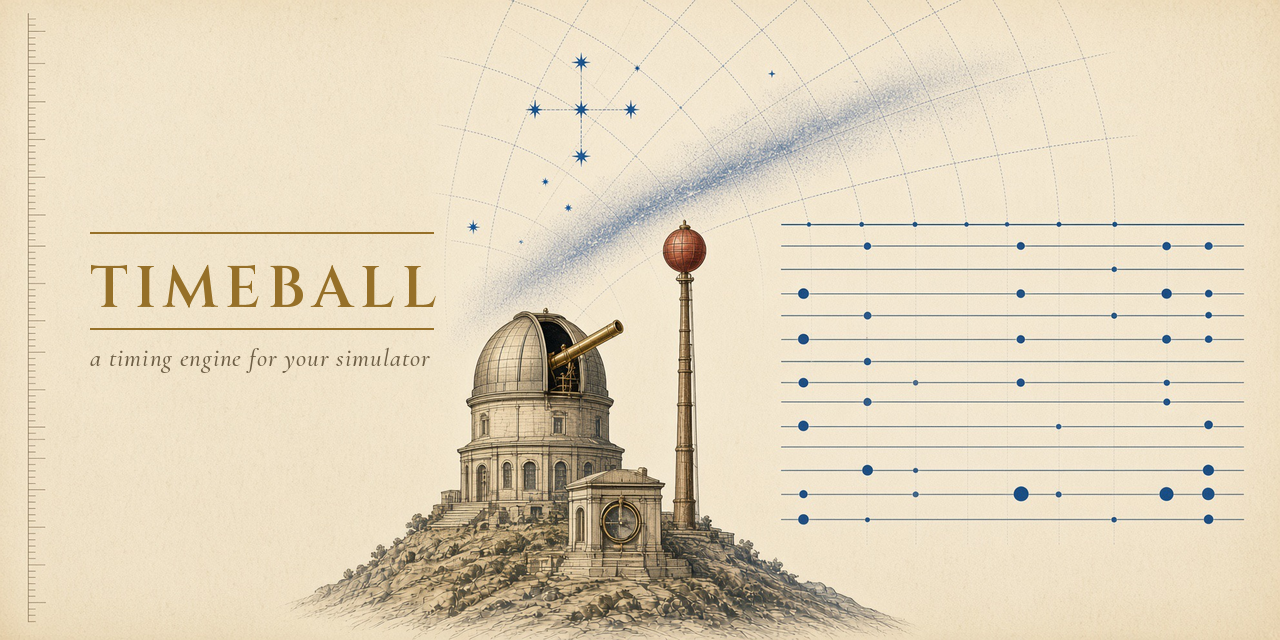
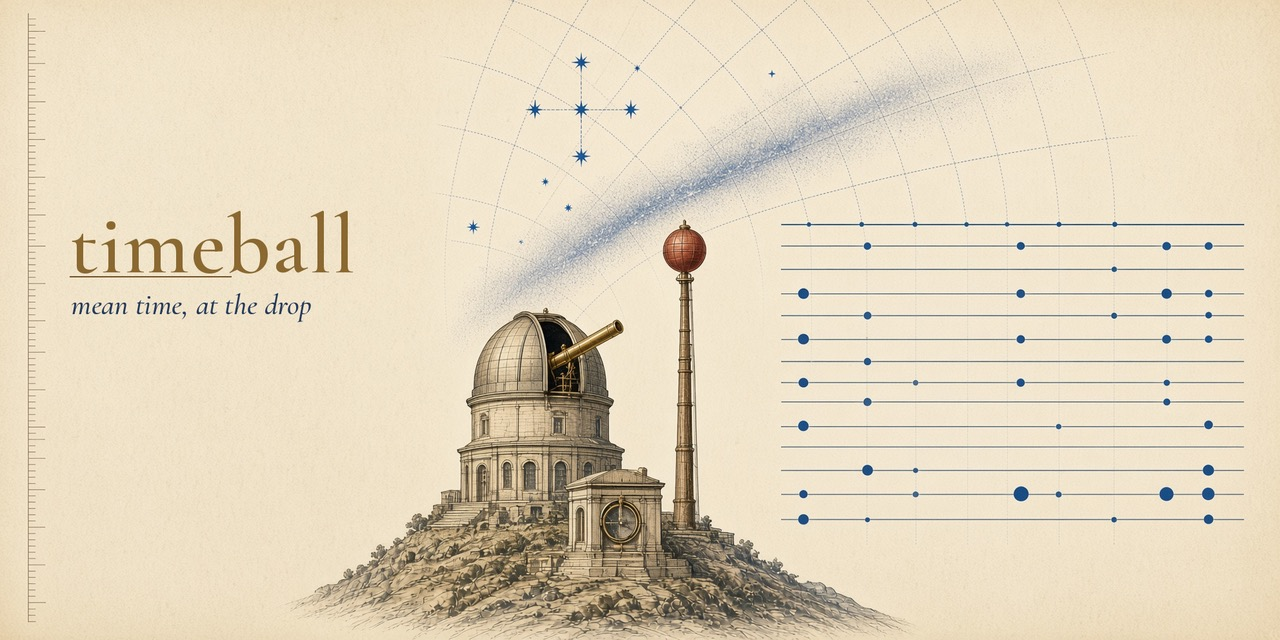
[Docs] Write the project name in lowercase and redraw the cover
The prose, comments, and README links say timeball. docs/img/cover.png is
redrawn with a lowercase title. CMake gains the timeball::engine alias to match
the C++ namespace; project() and the Timeball::engine alias stay, as downstream
builds link against them.

diff --git a/examples/mmio_accelerator.cpp b/examples/mmio_accelerator.cpp
@@ -6,7 +6,7 @@
 // reports the instructions it retires and the loads and stores it performs. The
 // program runs a dispatch core that feeds a vector unit and a MAC array through
 // memory-mapped registers — write the sizes, write START, poll STATUS — which
-// is how software drives an accelerator. Timeball sees nothing else, and
+// is how software drives an accelerator. timeball sees nothing else, and
 // answers how long it took and where the time went.
 
 #include <cassert>

diff --git a/examples/spike/two_machines.cpp b/examples/spike/two_machines.cpp
@@ -5,7 +5,7 @@
 // form of a Spike commit log. Spike is not run here.
 //
 // These cycles omit instruction fetch: a commit log has no fetch, and none is
-// invented. They are Timeball's timing of the committed accesses, not a
+// invented. They are timeball's timing of the committed accesses, not a
 // comparison against silicon or RTL.
 
 #include <cassert>

diff --git a/test/unit/reference_scheduler.hpp b/test/unit/reference_scheduler.hpp
@@ -9,7 +9,7 @@
 // (O(cycles * ops)) and exactly the point: a bug shaped like the engine's own
 // implementation cannot also be shaped like this one.
 //
-// Test-only. Not part of the library Timeball ships.
+// Test-only. Not part of the library timeball ships.
 
 #ifndef TIMEBALL_TEST_REFERENCE_SCHEDULER_HPP
 #define TIMEBALL_TEST_REFERENCE_SCHEDULER_HPP

diff --git a/test/unit/checked_run.hpp b/test/unit/checked_run.hpp
@@ -11,7 +11,7 @@
 // see the windowed helpers in test_event_engine.cpp and test_core_port.cpp for
 // that shape.
 //
-// Test-only. Not part of the library Timeball ships.
+// Test-only. Not part of the library timeball ships.
 
 #ifndef TIMEBALL_TEST_CHECKED_RUN_HPP
 #define TIMEBALL_TEST_CHECKED_RUN_HPP

diff --git a/README.md b/README.md
@@ -1,16 +1,16 @@
 <p align="center">
-  <img src="docs/img/cover.png" alt="Timeball: a timing engine for your simulator" width="720">
+  <img src="docs/img/cover.png" alt="timeball: a timing engine for your simulator" width="720">
 </p>
 
-# Timeball
+# timeball
 
 ![License](https://img.shields.io/badge/license-MIT-blue.svg)
 ![C++20](https://img.shields.io/badge/c%2B%2B-20-blue.svg)
 ![CI/CD](https://github.com/TheCloudlet/timeball/workflows/CI%2FCD%20Pipeline/badge.svg)
 ![Format](https://github.com/TheCloudlet/timeball/workflows/Format%20Check/badge.svg)
 
-**Timeball is a timing engine that you link into your own simulator.** You
-describe a chip as a graph of connected units, and Timeball computes when each
+**timeball is a timing engine that you link into your own simulator.** You
+describe a chip as a graph of connected units, and timeball computes when each
 access completes. Your simulator runs the program.
 
 ![One run of examples/mmio_accelerator in Perfetto: per-resource work lanes for
@@ -24,8 +24,8 @@ the core, L1, DRAM, a vector unit and a MAC array](docs/img/mmio-perfetto.png)
 A [time ball](https://en.wikipedia.org/wiki/Time_ball) is a ball on a mast,
 dropped at an agreed hour so every ship in the harbor can set its chronometer
 by the same instant. The ball does not sail; it only keeps the time the others
-read. Timeball plays that part for a simulator. Your simulator decides what
-runs. Timeball keeps the one timeline that says when, and how long each access
+read. timeball plays that part for a simulator. Your simulator decides what
+runs. timeball keeps the one timeline that says when, and how long each access
 waited.
 
 ## The problem
@@ -48,15 +48,15 @@ It is also wrong once anything is shared. Forty cycles per access holds while
 accesses run one at a time. When two agents use the same resource, one waits,
 and a fixed number cannot show the wait. Both agents need one timeline.
 
-Timeball keeps that timeline in its own engine, linked into the simulator you
+timeball keeps that timeline in its own engine, linked into the simulator you
 have. You test the engine by itself, compare it across workloads, and reuse it
 on the next project.
 
 ## How it works
 
 A host simulator keeps its architectural state and its correctness, and tells
-Timeball what work happens: memory accesses, and any other operation with a cost
-it already knows. Timeball puts all of it on one timeline and answers when each
+timeball what work happens: memory accesses, and any other operation with a cost
+it already knows. timeball puts all of it on one timeline and answers when each
 piece completes.
 
 If the address graph looks like this:
@@ -209,7 +209,7 @@ it has compile-time geometry throughout. A cache hit is one hop and never
 touches its successor.
 
 This is a preference on the per-access path, not a system-wide guarantee. The
-earlier claim that Timeball "eliminates virtual dispatch" described a design
+earlier claim that timeball "eliminates virtual dispatch" described a design
 that could not express a shared resource at all, and has been replaced.
 
 ### One record, kept by the engine
@@ -254,7 +254,7 @@ analysis that must tell resources apart should key on the id, not the name. The
 SQLite store keeps the name.
 
 A caller that owns its own tables may add a nullable `metadata` column to `ops`
-holding one JSON object per row. Timeball never writes it; the Perfetto
+holding one JSON object per row. timeball never writes it; the Perfetto
 converter shows each key as a named argument on that row's slice, and rejects a
 row whose metadata is not valid JSON, naming the row.
 
@@ -269,7 +269,7 @@ connection, starts the transaction before constructing the store, and writes its
 own tables keyed by operation ID. Check the store's `Close()` result before
 committing the combined recording; it finalizes only the store's statements. The
 caller must also check its metadata writes and final commit, and publish only a
-complete recording. No caller-specific schema is added to Timeball.
+complete recording. No caller-specific schema is added to timeball.
 
 ### Viewing a recording in Perfetto
 
@@ -382,10 +382,11 @@ ctest --test-dir build
 
 ```cmake
 add_subdirectory(third_party/timeball)
-target_link_libraries(my_host PRIVATE Timeball::engine)
+target_link_libraries(my_host PRIVATE timeball::engine)
 ```
 
-The target carries its include paths and requires C++20. When Timeball is not
+The target carries its include paths and requires C++20. `Timeball::engine`, the
+earlier spelling, is still an alias for it. When timeball is not
 the top-level project it leaves the host's compiler settings alone and builds
 no examples or benchmark; `-DTIMEBALL_BUILD_EXAMPLES=ON` turns them on.
 
@@ -557,7 +558,7 @@ test runs from the committed transcript and does not need Spike installed.
 ## Error handling
 
 No exceptions. Configuration and the per-access path do not return errors:
-Timeball is embedded in someone else's simulator, and throwing into a host
+timeball is embedded in someone else's simulator, and throwing into a host
 that does not expect exceptions behaves unpredictably, quite apart from
 exceptions being frequently disabled in this domain. One query does return
 `tl::expected`: `EventEngine::CompletionOf` is the cycle, or `kPending`, or
@@ -661,7 +662,7 @@ MIT License — see LICENSE file for details.
 
 ```bibtex
 @software{timeball2025,
-  title={Timeball: An Embeddable Timing Engine for Chip Topologies},
+  title={timeball: An Embeddable Timing Engine for Chip Topologies},
   author={TheCloudlet},
   year={2025},
   url={https://github.com/TheCloudlet/timeball}

diff --git a/examples/spike/README.md b/examples/spike/README.md
@@ -7,7 +7,7 @@ It prints both completion cycles.
 
 Those cycles omit instruction fetch. A commit log records retired
 instructions and their data accesses, and the converter does not invent
-fetches. The numbers are Timeball timing that transcript. They are not a
+fetches. The numbers are timeball timing that transcript. They are not a
 comparison against silicon or RTL.
 
 The test locks only the order: the one-line cache finishes later. It does
@@ -22,7 +22,7 @@ not lock the cycle counts, and it does not run Spike.
  commit_log -> program.trace (CorePortEvents: retire, load, store)
    | replayed; Spike is not run again
    v
- Timeball Machine
+ timeball Machine
    CorePort (cpi = 1)            data accesses only, no instruction fetch
      v
    L1 data cache, 64 B lines, LRU, hit = 1 cycle
